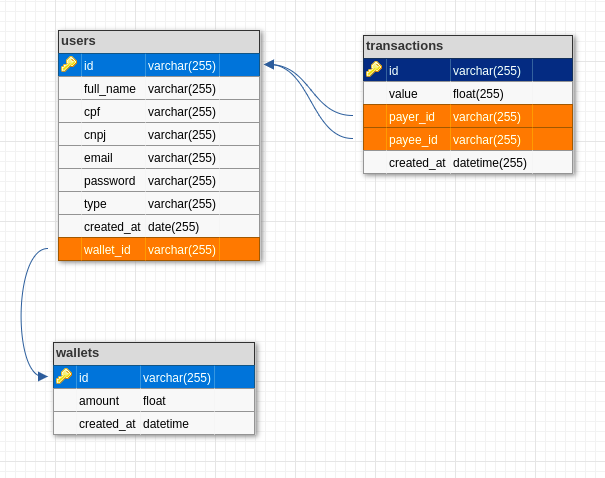
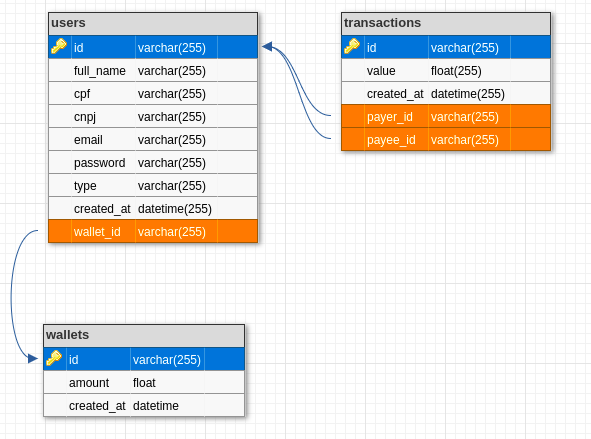
feat: parcial readme

diff --git a/README.md b/README.md
@@ -1,27 +1,61 @@
 # **Payment-service**
 
-Payment-service.
+O projeto consiste na criação de usuarios comuns/logistas, podendo realizar transferencias de usuarios comuns para logistas.
 
-## **Install instructions**
+Principios/Técnicas/Conceitos utilizados:
+- **Clean Architecture (CA)**
+- **Domain-Driven Design (DDD)**
+- **SOLID**
+- **Design Patterns**
+- **Keep It Simple, Stupid (KISS)**
+- **Don't Repeat Yourself (DRY)**
 
-### Getting Started
 
-#### 1) Clone & Install Dependencies
+## **Instruções de instalação**
+
+### Começando
+
+#### 1) Clone & Instalar Dependências
 
 - 1.1) `git clone https://github.com/ricardoSpara/payment-service.git`
-- 1.2) `cd payment-service` - cd into your newly created project directory
-- 1.3) `cp .env.development.example .env` - copy environment variables.
-  **Note:** check the environment variables according to your local settings
-- 1.4) Install NPM packages with `yarn install`
+- 1.2) `cd payment-service` - cd em seu diretório de projeto recém-criado
+- 1.3) `cp .env.development.example .env` - copiar variáveis de ambiente.
+  **Note:** verifique as variáveis de ambiente de acordo com suas configurações locais (no .example está de acordo com docker-composer já)
 
-#### 2) Start your app
+#### 2) Inicie a aplicação
 
-- 2.1) **[Docker]** If you have a docker on your machine:
+- 2.1) **[Docker]** Se você tiver uma docker em sua máquina:
   - 2.1.1) Local Deploy: `docker-compose up`
 
-#### 3) Check api docs
+
+## **Aplicação**
+
+### Rotas
+
+Foi utilizado swagger para documentar as rotas da aplicação, verifique `http://localhost:3000/api-docs/`
+
+### Modelagem de dados
+
+Foi utilizado PostgreSQL e consiste em 3 tabelas como na imagem a seguir:
+
+![alt text](docs/schema.png "schema")
+
+
+## **Testes**
+
+Os teste utilizam jest, foquei os testes principalmente na parte de caso de uso, onde ficam todas as implementações. Automaticamente já é gerado a pasta coverge para verificar quais pontos do sistemas estão testados.
+
+### Rodar
+
+```bash
+yarn test # or npm run test
+```
+![alt text](docs/tests.png "schema")
+
+
+<!-- #### 3) Check api docs
 
 ```
  http://localhost:3000/api-docs/
 ```
-
+ -->
